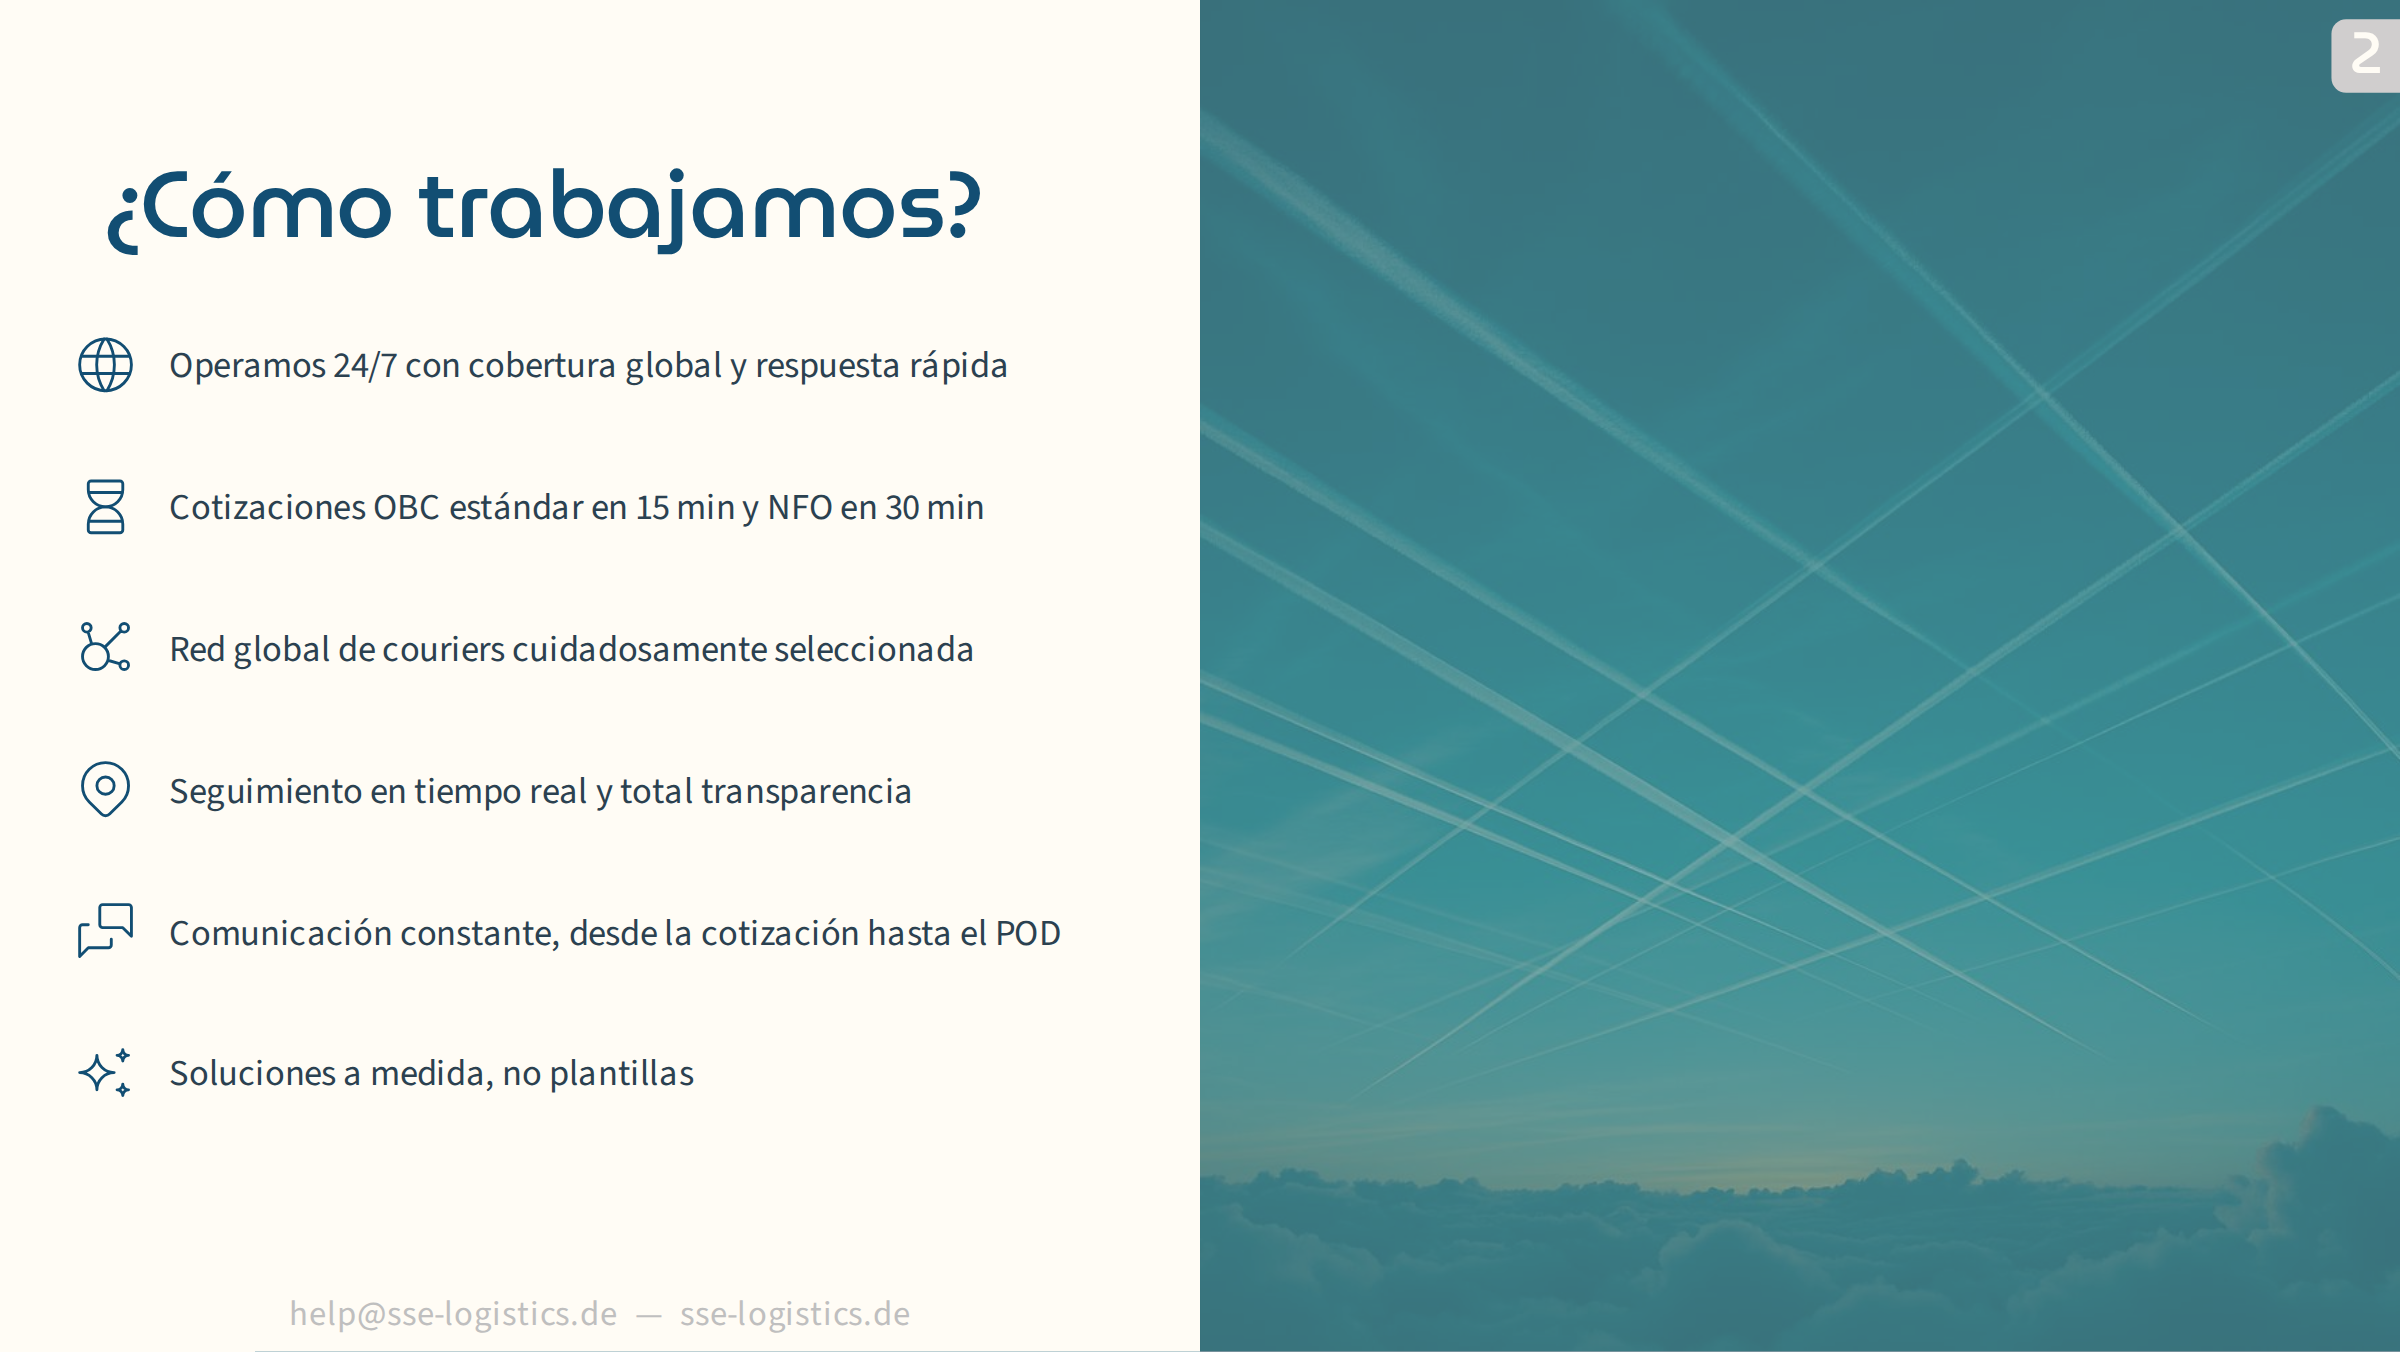
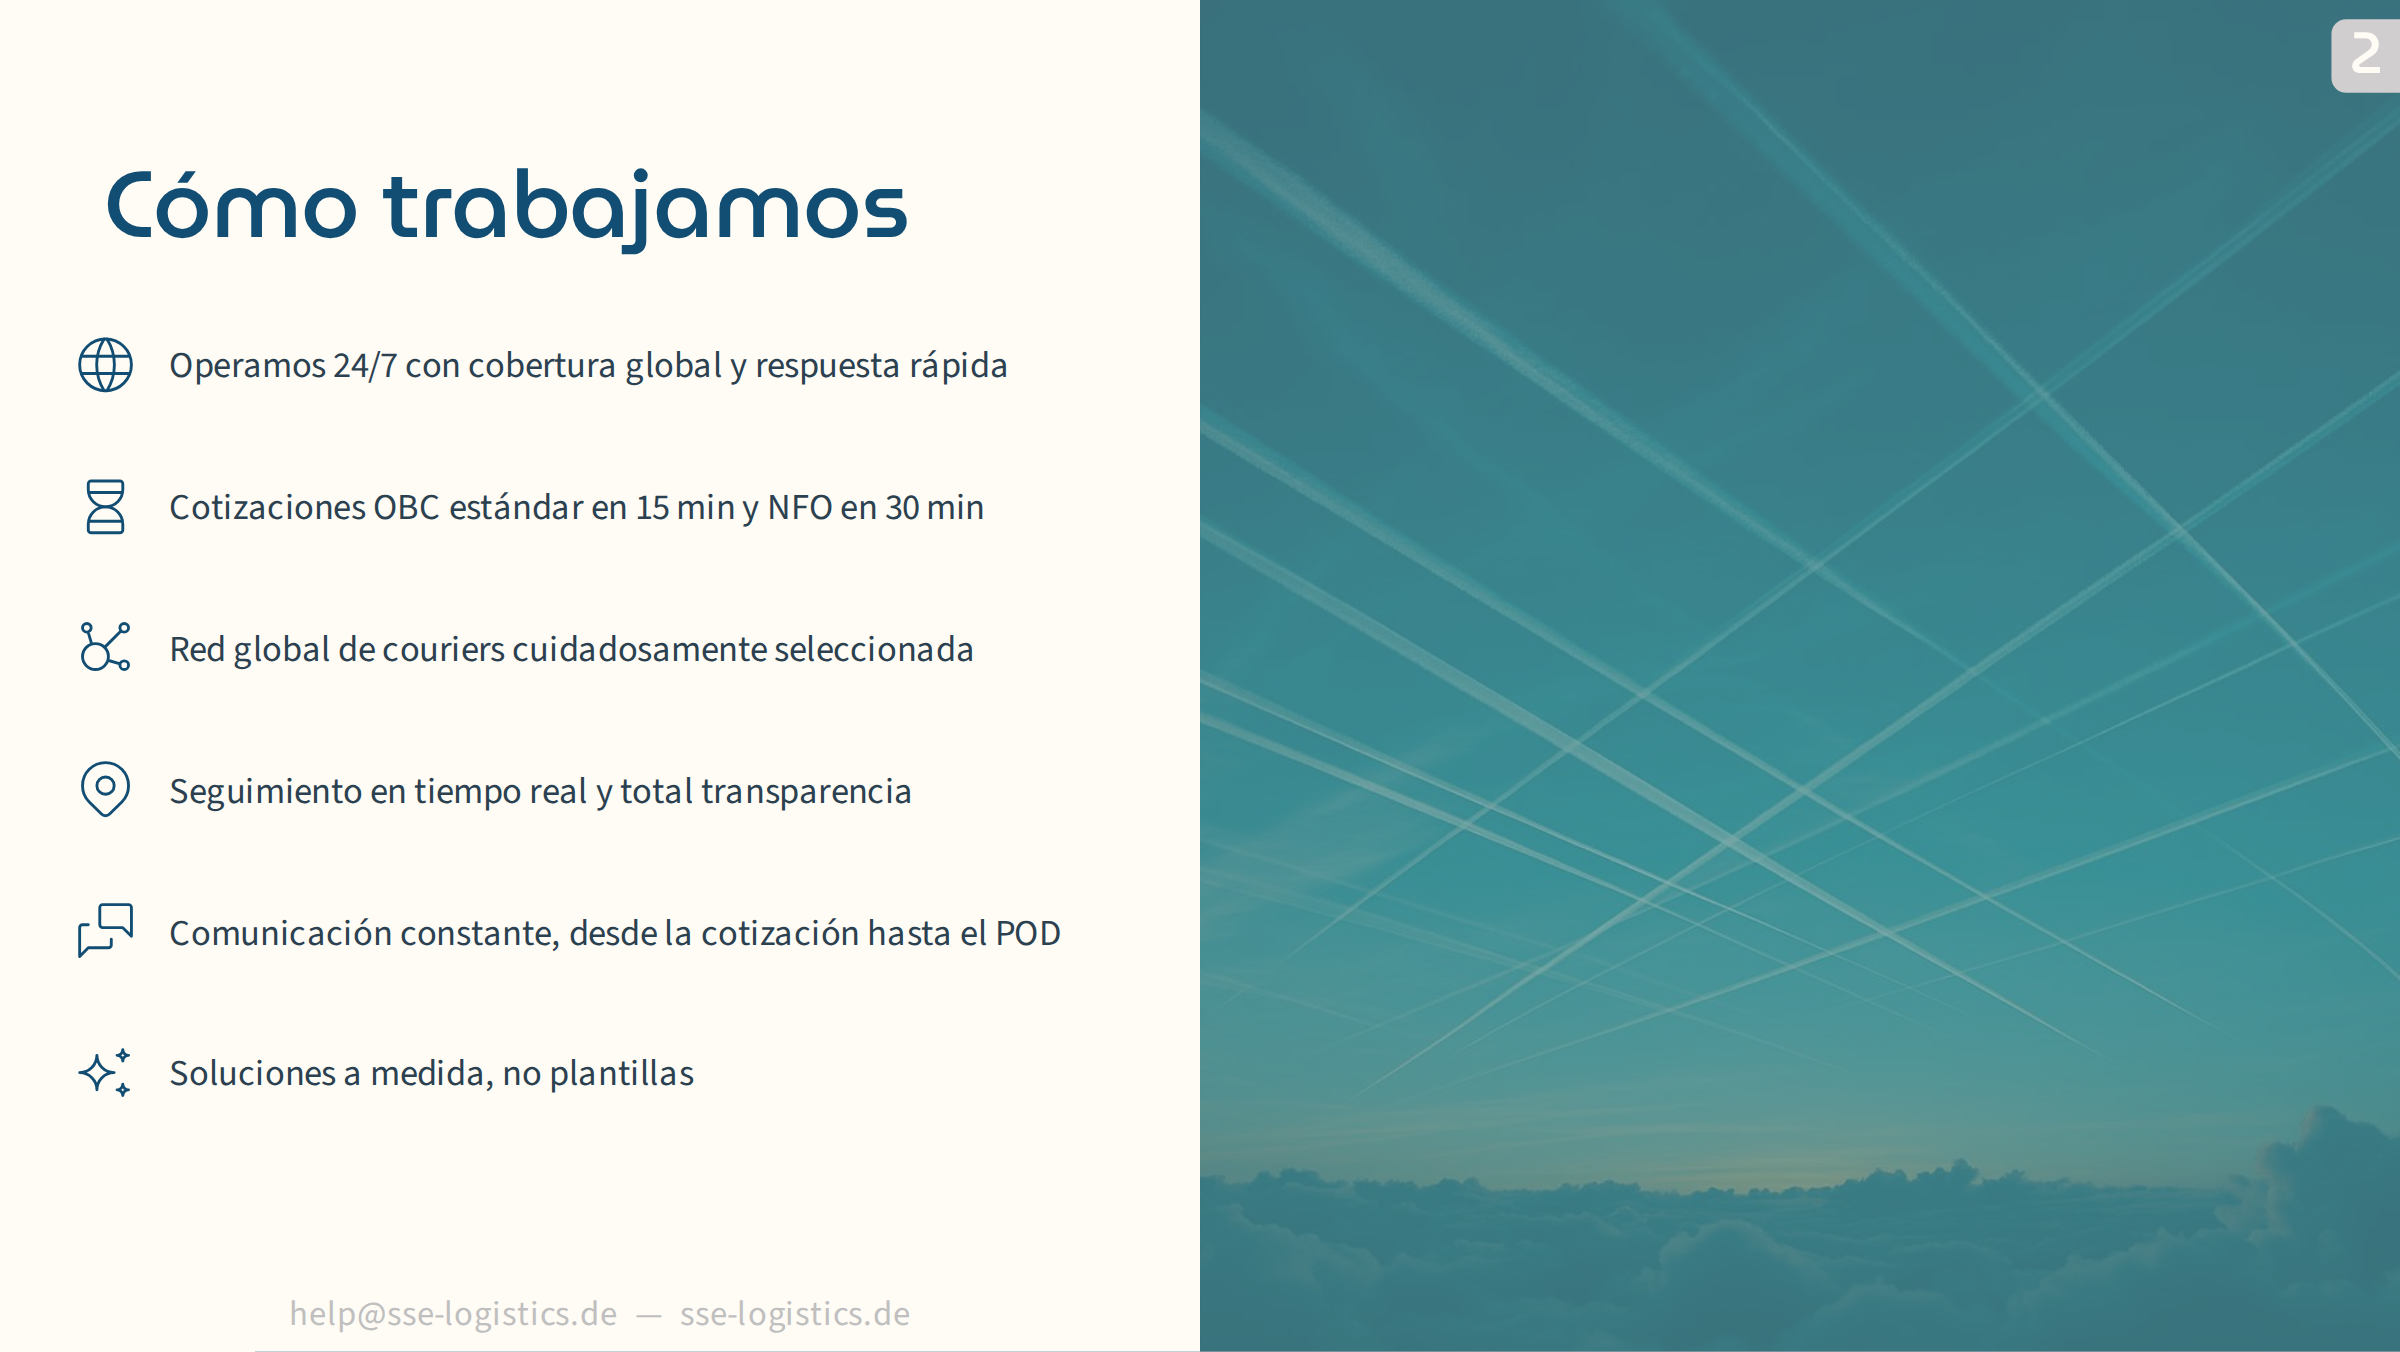
es version - return to reference

Changed region(s): [[0.0312, 0.1243, 0.4062, 0.1864]]

diff --git a/2025-02-alla-presentation/locales/es.ts b/2025-02-alla-presentation/locales/es.ts
@@ -1,20 +1,20 @@
-// Spanish texts: sources/marketing materials_spanish translation.docx plus the reviewer's corrections.
+// Spanish texts: as in Sources/Alla-pres-v9-es.pptx.
 import type { Messages } from './en'
 
 const es: Messages = {
   who: {
     title: 'Quiénes somos',
     rows: [
-      { title: 'Fundada en 2020', text: 'Somos un equipo con más de una década de experiencia combinada en logística de tiempo crítico' },
+      { title: 'Fundada en 2020', text: 'Más de una década de experiencia en logística de tiempo crítico' },
       { title: 'Equipo principal', text: 'Más de 10 años trabajando juntos' },
       { title: 'Especializados en envíos urgentes', text: 'Soluciones OBC, NFO y transporte terrestre exprés' },
       { title: 'Enfoque flexible', text: 'Nos adaptamos a las necesidades reales de cada envío' },
-      { title: 'Más de 1.000 couriers y colaboradores en todo el mundo', text: 'Trabajamos exclusivamente con una red de colaboradores confiables cuidadosamente seleccionados' },
+      { title: 'Más de 1.000 couriers y colaboradores en todo el mundo', text: 'Pero trabajamos únicamente con una red de confianza cuidadosamente seleccionada' },
       { title: 'Calidad sobre cantidad', text: 'Nos enfocamos en la precisión, la fiabilidad y las relaciones a largo plazo' },
     ],
   },
   how: {
-    title: '¿Cómo trabajamos?',
+    title: 'Cómo trabajamos',
     rows: [
       'Operamos 24/7 con cobertura global y respuesta rápida',
       'Cotizaciones OBC estándar en 15\u00a0min y NFO en 30\u00a0min',
@@ -28,7 +28,7 @@ const es: Messages = {
     whatTitle: '¿Qué es OBC (On Board Courier)?',
     whatText: 'OBC significa On Board Courier, un servicio premium en el que un courier dedicado acompaña personalmente su envío urgente de principio a fin, garantizando una entrega rápida y segura sin separarse nunca del paquete.',
     howTitle: '¿Cómo funciona OBC?',
-    howText: 'Con el servicio On Board Courier (OBC), un courier dedicado recoge personalmente su envío urgente, lo lleva consigo a bordo del avión y lo entrega en mano directamente en el destino. Este proceso garantiza máxima seguridad, rapidez y seguimiento en tiempo real para sus envíos críticos.',
+    howText: 'Con el servicio On Board Courier (OBC), un courier dedicado recoge personalmente su envío urgente, lo lleva consigo a bordo del avión y lo entrega en mano directamente en el destino.\nEste proceso garantiza máxima seguridad, rapidez y seguimiento en tiempo real para sus envíos críticos.',
     perks: ['Entrega rápida', 'Manipulación segura', 'Seguimiento en tiempo real', 'Máxima tranquilidad'],
   },
   timeline: {
@@ -61,11 +61,11 @@ const es: Messages = {
     docs: [
       { title: 'Documentos principales', items: ['Factura comercial', 'Lista de empaque', 'Certificado de origen', 'Código HS'] },
       { title: 'Documentos adicionales', items: ['Permisos de exportación o importación', 'Poder notarial (POA) para el despacho de aduanas'] },
-      { title: 'Documentos del courier', items: ['Pasaporte', 'Boletos de avión'] },
+      { title: 'Documentos del courier', items: ['Pasaporte', 'Billetes de avión'] },
     ],
     countriesTitle: 'Países disponibles',
     countriesText: 'Ofrecemos servicios de despacho de aduanas en una amplia variedad de países en todo el mundo, incluyendo:',
-    countries: ['México', 'Estados Unidos', 'Unión Europea', 'Y muchos más'],
+    countries: ['México', 'Estados Unidos', 'Europa', 'Y muchos más'],
     note: '<strong>Nota:</strong> Los procedimientos aduaneros varían según el país y el aeropuerto. Contáctenos para conocer los requisitos específicos de cada país y recibir asistencia personalizada.',
   },
   services: {
@@ -87,7 +87,7 @@ const es: Messages = {
   },
   industries: {
     title: 'Industrias que atendemos',
-    items: ['Automotriz', 'Aeroespacial', 'Electrónica', 'Salud', 'Moda', 'Documentos'],
+    items: ['Automoción', 'Aeroespacial', 'Electrónica', 'Salud', 'Moda', 'Documentos'],
   },
   references: {
     title: 'Nuestras referencias',

diff --git a/2025-02-alla-presentation/styles/main.css b/2025-02-alla-presentation/styles/main.css
@@ -42,8 +42,6 @@ strong { color: var(--c-ink); font-weight: 700; }
   content: ''; position: absolute; inset: 0; z-index: 1;
   background: var(--c-tint); opacity: var(--tint-alpha);
 }
-.photo.kenburns > img { animation: kenburns 18s ease-out both; }
-@keyframes kenburns { from { transform: scale(1.12); } to { transform: scale(1); } }
 
 /* ---------- Cards ---------- */
 .card { background: var(--c-card); border-radius: 6px; padding: 1.05em 1.3em 1.05em .9em; }
@@ -97,36 +95,6 @@ h2.step > span {
 /* Tabler icons default to stroke 2; halve it. The attribute sits on the paths, so match it directly. */
 .slidev-layout [stroke-width="2"] { stroke-width: 1; }
 
-/* ---------- Motion ----------
-   Entrance classes; delay per element with style="--d: 300ms".
-   Slidev only hides inactive slides (v-show), so these replay every time a slide is shown. */
-:root { --ease: cubic-bezier(.2,.7,.2,1); }
-.a-rise  { animation: a-rise .6s var(--ease) var(--d, 0ms) both; }
-.a-left  { animation: a-left .55s var(--ease) var(--d, 0ms) both; }
-.a-right { animation: a-right .6s var(--ease) var(--d, 0ms) both; }
-.a-pop   { animation: a-pop .6s cubic-bezier(.3,1.4,.5,1) var(--d, 0ms) both; }
-@keyframes a-rise  { from { opacity: 0; transform: translateY(16px); } }
-@keyframes a-left  { from { opacity: 0; transform: translateX(-24px); } }
-@keyframes a-right { from { opacity: 0; transform: translateX(24px); } }
-@keyframes a-pop   { from { opacity: 0; transform: scale(.6); } }
-
-/* Every slide title rises in first; numbered headings pop their number */
-.slidev-layout h1, .slidev-layout h2.step { animation: a-rise .7s var(--ease) var(--d, 0ms) both; }
-.slidev-layout h2.step > span { animation: a-pop .55s cubic-bezier(.3,1.4,.5,1) calc(var(--d, 0ms) + 150ms) both; }
-
-/* Slide transition between plain pages: fade with a small sideways shift (photo slides keep fade-out) */
-.nudge-left-enter-active, .nudge-left-leave-active,
-.nudge-right-enter-active, .nudge-right-leave-active { transition: opacity .45s ease, transform .5s var(--ease); }
-.nudge-left-enter-from  { opacity: 0; transform: translateX(48px); }
-.nudge-left-leave-to    { opacity: 0; transform: translateX(-48px); }
-.nudge-right-enter-from { opacity: 0; transform: translateX(-48px); }
-.nudge-right-leave-to   { opacity: 0; transform: translateX(48px); }
-
-/* PDF/PNG export (html.print) and "reduce motion": no animation, final state at once */
-html.print .slidev-layout *, html.print .slidev-layout { animation: none !important; transition: none !important; }
-@media print {
-  .slidev-layout *, .slidev-layout { animation: none !important; transition: none !important; }
-}
-@media (prefers-reduced-motion: reduce) {
-  .slidev-layout *, .slidev-layout, [class*="nudge-"] { animation: none !important; transition: none !important; }
-}
+/* ---------- Motion: none ----------
+   No entrance animations and no slide transitions. Old a-* classes in the markup are harmless. */
+.slidev-layout, .slidev-layout * { animation: none !important; transition: none !important; }

diff --git a/2025-02-alla-presentation/layouts/split.vue b/2025-02-alla-presentation/layouts/split.vue
@@ -7,7 +7,7 @@ withDefaults(defineProps<{ image: string; side?: 'left' | 'right'; photoWidth?: 
 
 <template>
   <div class="slidev-layout split" :class="side" :style="{ '--photo': photoWidth }">
-    <div class="photo kenburns">
+    <div class="photo">
       <img :src="image" alt="" :style="{ objectPosition: photoPos }" />
       <img v-if="logo" class="logo" :src="logo" alt="SSE" />
       <div v-if="$slots.photo" class="over"><slot name="photo" /></div>
@@ -30,9 +30,7 @@ withDefaults(defineProps<{ image: string; side?: 'left' | 'right'; photoWidth?: 
 .photo > img.logo {
   inset: 0; margin: auto; z-index: 2; width: 62%; height: auto; object-fit: contain;
   filter: drop-shadow(0 6px 40px rgba(0,0,0,.25));
-  animation: rise 1.4s cubic-bezier(.2,.7,.2,1) .2s both;
 }
-@keyframes rise { from { opacity: 0; transform: scale(1.15); filter: blur(8px); } }
 </style>
 <style scoped>
 .split.left :deep(.footer) { left: var(--photo); }

diff --git a/2025-02-alla-presentation/layouts/cover.vue b/2025-02-alla-presentation/layouts/cover.vue
@@ -4,7 +4,7 @@ defineProps<{ image: string; logo?: string }>()
 </script>
 
 <template>
-  <div class="slidev-layout cover photo kenburns">
+  <div class="slidev-layout cover photo">
     <img :src="image" alt="" />
     <div class="content">
       <img v-if="logo" class="logo" :src="logo" alt="SSE" />
@@ -18,7 +18,5 @@ defineProps<{ image: string; logo?: string }>()
 .logo {
   width: 54.2%; height: auto; /* as in the pptx */
   filter: drop-shadow(0 6px 40px rgba(0,0,0,.25));
-  animation: rise 1.4s cubic-bezier(.2,.7,.2,1) .2s both;
 }
-@keyframes rise { from { opacity: 0; transform: scale(1.15); filter: blur(8px); } }
 </style>

diff --git a/2025-02-alla-presentation/components/Timeline.vue b/2025-02-alla-presentation/components/Timeline.vue
@@ -31,4 +31,5 @@ h3 { font-size: 18.7px; line-height: 23.8px; max-width: 122px; margin: 14.5px 0 
 .w { white-space: nowrap; }
 p { font-size: 14.9px; line-height: 24.7px; max-width: 133px; }
 .step:last-child p { max-width: 115px; } /* the last text box is narrower in the pptx */
+:lang(es) .step:last-child p { max-width: 133px; } /* but not in the Spanish one */
 </style>

diff --git a/2025-02-alla-presentation/layouts/photo.vue b/2025-02-alla-presentation/layouts/photo.vue
@@ -4,7 +4,7 @@ defineProps<{ image: string }>()
 </script>
 
 <template>
-  <div class="slidev-layout photo kenburns">
+  <div class="slidev-layout photo">
     <img :src="image" alt="" />
     <div class="pad over"><slot /></div>
     <Chrome dark />

diff --git a/2025-02-alla-presentation/slides.md b/2025-02-alla-presentation/slides.md
@@ -4,7 +4,6 @@ title: SSE Logistics
 info: Company presentation
 aspectRatio: 16/9
 canvasWidth: 980
-transition: fade-out
 fonts:
   provider: none
 routerMode: hash
@@ -38,10 +37,11 @@ side: left
 
 <style>
 /* Top-aligned, positions and sizes taken from the pptx */
-.who { margin: -14px 0 auto -3px; --ic-col: 29px; --ic-gap: 12px; --ic-size: 1.44em; --row-title: 14.4px; --row-title-gap: 2px; --row-text: 12.9px; }
+.who { margin: -14px 0 auto -3px; --ic-col: 29px; --ic-gap: 12px; --ic-size: 1.44em; --row-title: 14.4px; --row-title-gap: 6px; --row-text: 11px; }
 .who h1 { margin: 0 0 23.5px 14px; }
 .who .list { display: flex; flex-direction: column; gap: 24.9px; }
-.who .list:lang(es) { gap: 19px; } /* longer Spanish text */
+/* Spanish: move the photo/text border left so the longer rows fit (inline --photo needs !important) */
+:lang(es) .split.left { --photo: 46% !important; }
 </style>
 
 ---
@@ -76,7 +76,6 @@ side: right
 
 ---
 layout: page
-transition: nudge-left | nudge-right
 ---
 
 <div class="obc">
@@ -102,7 +101,10 @@ transition: nudge-left | nudge-right
 .obc .card { height: 107.4px; box-sizing: border-box; padding: 13.2px 6px 0 13px; border-radius: 3px; }
 .obc .card + .card { margin-top: 12.6px; }
 .obc .card h2 { font-size: 26.2px; line-height: 1.2; color: var(--c-ink); margin-bottom: 9px; }
-.obc .card p { font-size: 12.9px; line-height: 21.8px; }
+.obc .card p { font-size: 12.9px; line-height: 21.8px; white-space: pre-line; } /* \n in the text = line break */
+/* Spanish: the second card is taller and the perks sit lower, as in the Spanish pptx */
+:lang(es) .obc .card + .card { height: 122px; }
+:lang(es) .obc .perks { margin-top: 14.9px; }
 .obc .perks { display: grid; grid-template-columns: repeat(2, 447px); justify-content: center; row-gap: 35.3px; margin-top: 14.2px; text-align: center; }
 .obc .perks > div { display: flex; flex-direction: column; align-items: center; gap: 12px; }
 .obc .perks img { width: 32.3px; height: 32.3px; }
@@ -111,7 +113,6 @@ transition: nudge-left | nudge-right
 
 ---
 layout: page
-transition: nudge-left | nudge-right
 ---
 
 <div class="mission">
@@ -138,7 +139,6 @@ transition: nudge-left | nudge-right
 
 ---
 layout: page
-transition: nudge-left | nudge-right
 ---
 
 <div class="quote selectable">
@@ -162,11 +162,11 @@ transition: nudge-left | nudge-right
 .quote h2 { font-size: 22.85px; line-height: 1.2; margin-bottom: 18px; }
 .quote h2 + .boxes + h2 { margin: 23.1px 0 22.3px; }
 .quote .box { height: 175px; }
+:lang(es) .quote .boxes:last-child .box { height: 187px; } /* Spanish: two-line last item in Documentos */
 </style>
 
 ---
 layout: page
-transition: nudge-left | nudge-right
 ---
 
 <div class="customs">
@@ -249,6 +249,8 @@ layout: page
 /* Three sections, icon on the left; positions and sizes taken from the pptx */
 .services { margin: 0 9.5px; }
 .services h1 { font-size: 38.26px; margin: 9.2px 0 0; }
+:lang(es) .services h1 { font-size: 31.44px; margin: 15.3px 0 0; } /* longer Spanish title, one line as in the Spanish pptx */
+:lang(es) .services .svc:first-of-type { margin-top: 31px; }
 .services .svc { display: grid; grid-template-columns: 38.7px 1fr; column-gap: 14.3px; height: 155.9px; }
 .services .svc:first-of-type { margin-top: 29px; }
 .services .svc img { width: 38.7px; height: 38.7px; }
@@ -278,6 +280,7 @@ image: img/runway.jpg
 <style>
 /* Title and a 3x2 grid of icons; positions and sizes taken from the pptx */
 .industries h1 { font-size: 38.7px; margin: 116.1px 0 0 32.1px; }
+:lang(es) .industries h1 { width: 892.65px; margin-left: 22.6px; text-align: center; } /* Spanish: centred over the icon grid */
 .industries .ind { display: grid; grid-template-columns: repeat(3, 297.55px); row-gap: 31px; margin: 26.3px 0 0 22.6px; text-align: center; }
 .industries .ind > div { display: flex; flex-direction: column; align-items: center; gap: 16px; }
 .industries .ind img { width: 38px; height: 38px; }
@@ -376,11 +379,7 @@ import { brand, mapsUrl } from './brand'
 </div>
 
 <style>
-/* Photo side: gradient instead of the flat tint, small logo top-left, big two-line title and lead */
-.split.left :deep(.photo)::after {
-  background: linear-gradient(90deg, rgba(13,53,80,.82) 0%, rgba(13,53,80,.5) 45%, rgba(13,53,80,.08) 100%);
-  opacity: 1;
-}
+/* Photo side (usual tint of the split layout): small logo top-left, big two-line title and lead */
 .connect { position: absolute; inset: 0; padding: 48px 56px; display: flex; flex-direction: column; }
 .connect .logo { width: 112px; height: auto; }
 .connect h1 { font-size: 66px; line-height: 1.02; max-width: 300px; margin-top: 96px; } /* wraps to two lines */
